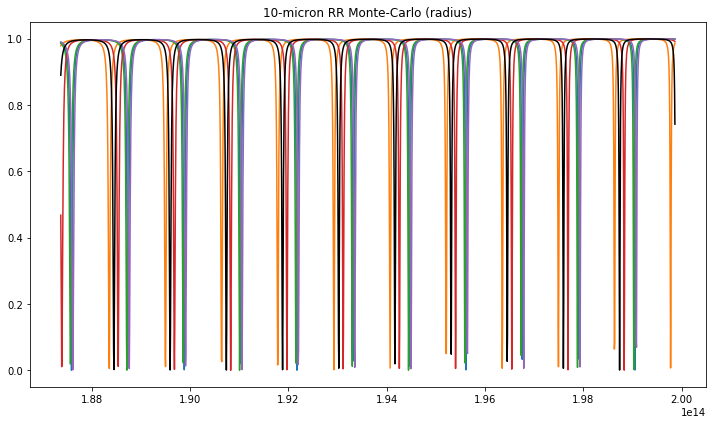
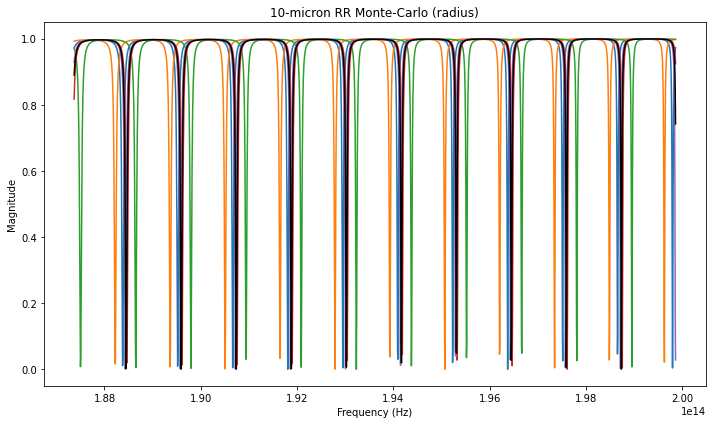
Finished up inverse design tutorials

diff --git a/SiPANN/scee_opt.py b/SiPANN/scee_opt.py
@@ -2,7 +2,6 @@ import nlopt
 import numpy as np
 import matplotlib.pyplot as plt
 from SiPANN import scee
-import pickle
 from scipy import special
 import os
 from tables import *
@@ -139,6 +138,7 @@ def make_coupler(goalK=.4, arrayK=None, waveSweep=np.linspace(1500,1600,4), gapN
     coupler = scee.GapFuncSymmetric(width, thickness, lambda x: gapMax, lambda x: 0, 0, couplingWidth)
     curvatureFunc = lambda x: 0
     localOpt = False
+    waveN = len(waveSweep)
 
     #set up progress bars
     if verbose == 1:

diff --git a/examples/Tutorials/export_to_rst.py b/examples/Tutorials/export_to_rst.py
@@ -18,7 +18,7 @@ def convert_jupyter(file):
     files = fr'{filename}_files'
     os.system(f'rm -rf ../../docs/source/tutorials/{files}')
     os.system(f'cp -r {files} ../../docs/source/tutorials')
-    os.system(f'rm {files}/*_0.png')
+    os.system(f'rm {files}/**_**_**.png')
     os.system(f'mv {filename}.rst ../../docs/source/tutorials/{filename}.rst')
 
 def convert_all():

diff --git a/docs/source/tutorials/InverseDesign.rst b/docs/source/tutorials/InverseDesign.rst
@@ -39,41 +39,49 @@ about the process, see [INSERT PAPER WHEN PUBLISHED].
         if save is not None:
             plt.savefig(save)
 
+Wavelength Sweep
+----------------
+
 Most of the defaults parameters for ``SiPANN.scee_opt.make_coupler``
 have been set because they work well, so if you don’t know what you’re
 doing, it’s generally best to stick with them. Here we make a coupler
-with 25% of the light coming out of the through port. It will return an
+with 25% of the light coming out of the cross port. It will return an
 instance of ``SiPANN.scee.GapFuncSymmetric``, the control points chosen,
 and the final length of the coupler.
+
+The number of points passed into ``waveSweep`` is the one that affects
+how long the optimizer takes the most. We pass in 2 points. This will
+cause the optimizer to use the endpoints of our wavelength sweep when
+evaluating the objective function. This is generally sufficient since
+the response is usually either increasing or decreasing everywhere, so
+trying to push the endpoints to our desired ratio is enough.
 
 .. code:: ipython3
 
     width = 500
     thickness = 220
-    coupler, gap_pts, length = scee_opt.make_coupler(goalK=.25, verbose=1, width=500, thickness=220)
+    coupler, gap_pts, length = scee_opt.make_coupler(goalK=.25, verbose=1, 
+                                                     width=width, thickness=thickness, 
+                                                     waveSweep=np.array([1500,1600]), maxiter=15000)
 
 
 .. parsed-literal::
 
-    LOCAL, MSE: 7.3049, Mean currK: 0.0006: : 200it [02:06,  1.49it/s] 
-
-
-.. image:: InverseDesign_files/InverseDesign_3_1.png
-
+    LOCAL, MSE: 0.0267, Mean currK: 0.2864:  50%|█████     | 15001/30000 [42:58<38:09,  6.55it/s]
 
 We can easily save it to an npz file for later use using
 ``SiPANN.scee_opt.save_coupler``
 
 .. code:: ipython3
 
-    scee_opt.save_coupler(width, thickness, gap_pts, length, "test_coupler.npz")
+    scee_opt.save_coupler(width, thickness, gap_pts, length, "split_25_75.npz")
 
 And then reload it using the ``SiPANN.scee_opt.load_coupler``. This will
 return us an instance of ``SiPANN.scee.GapFuncSymmetric``.
 
 .. code:: ipython3
 
-    coupler = scee_opt.load_coupler("test_coupler.npz")
+    coupler, length = scee_opt.load_coupler("split_25_75.npz")
 
 And we’ll check what it looks like and make sure it performs as we
 anticipated.
@@ -95,25 +103,86 @@ anticipated.
     
     plt.figure(figsize=(15,5))
     plt.subplot(121)
-    plt.axhline(.25, c='k', label="Desired Ratios")
+    plt.axhline(.25, c='k', label="Desired Output")
     plt.axhline(.75, c='k')
     plt.plot(wavelength, np.abs(k)**2, label='k')
     plt.plot(wavelength, np.abs(t)**2, label='t')
-    pltAttr('Wavelength (nm)', 'Magnitude', '25/75 Splitter')
+    pltAttr('Wavelength (nm)', 'Magnitude Squared', '25/75 Splitter', legend='best')
     plt.subplot(122)
     plt.plot(wavelength, np.unwrap(np.angle(k)), label='k')
     plt.plot(wavelength, np.unwrap(np.angle(t)), label='t')
-    pltAttr('Wavelength (nm)', 'Phase (rad)', '25/75 Splitter')
+    pltAttr('Wavelength (nm)', 'Phase (rad)', '25/75 Splitter', legend='best')
 
 
 
-.. image:: InverseDesign_files/InverseDesign_11_0.png
+.. image:: InverseDesign_files/InverseDesign_12_0.png
 
 
 For your convenience, this has been done for a variety of splitting
 ratios already and they all can be loaded using
 ``SiPANN.scee_opt.premade_coupler``. To learn more about how to use that
 see the tutorial on Premade Couplers via Inverse Design.
+
+Single Wavelength
+-----------------
+
+If we desire a specific wavelength to have a ratio, we can achieve this
+by making ``waveSweep`` only have one element. This causes only a single
+wavelength to be optimized (and a solution is generally found very
+quickly). This enforces nothing on any other wavelengths, so it’s
+possible that it will be significantly different than the desired ratio
+even at close wavelengths.
+
+For an example, we show this for :math:`\lambda=1530nm` and a ratio of
+45%.
+
+.. code:: ipython3
+
+    width = 500
+    thickness = 220
+    coupler, gap_pts, length = scee_opt.make_coupler(goalK=.45, verbose=1, 
+                                                     width=width, thickness=thickness, maxiter=30000,
+                                                     waveSweep=np.array([1530]))
+    scee_opt.save_coupler(width, thickness, gap_pts, length, "split_45_55_1530.npz")
+
+
+.. parsed-literal::
+
+    LOCAL, MSE: 0.1523, Mean currK: 0.1832:  18%|█▊        | 10975/60000 [18:09<1:31:59,  8.88it/s] 
+
+.. code:: ipython3
+
+    coupler, length = scee_opt.load_coupler("split_45_55_1530.npz")
+    coupler.gds(view=True,extra=0,units='microns')
+
+.. figure:: InverseDesign_files/splitter.png
+   :alt: splitter
+
+   splitter
+
+.. code:: ipython3
+
+    wavelength = np.linspace(1500, 1600, 100)
+    k = coupler.predict((1,4), wavelength)
+    t = coupler.predict((1,3), wavelength)
+    
+    plt.figure(figsize=(15,5))
+    plt.subplot(121)
+    plt.axhline(.45, c='k', label="Desired Output")
+    plt.axhline(.55, c='k')
+    plt.axvline(1530, c='k')
+    plt.plot(wavelength, np.abs(k)**2, label='k')
+    plt.plot(wavelength, np.abs(t)**2, label='t')
+    pltAttr('Wavelength (nm)', 'Magnitude Squared', '45/55 Splitter at $\lambda=1530$', legend='best')
+    plt.subplot(122)
+    plt.plot(wavelength, np.unwrap(np.angle(k)), label='k')
+    plt.plot(wavelength, np.unwrap(np.angle(t)), label='t')
+    pltAttr('Wavelength (nm)', 'Phase (rad)', '45/55 Splitter at $\lambda=1530$', legend='best')
+
+
+
+.. image:: InverseDesign_files/InverseDesign_18_0.png
+
 
 If you’d like this tutorial as a jupyter notebook, it can be found on
 github,

diff --git a/docs/source/tutorials/Simphony.rst b/docs/source/tutorials/Simphony.rst
@@ -20,6 +20,16 @@ The SCEE wrapper can be found in ``SiPANN.scee_int``.
     
     import matplotlib.pyplot as plt
     import numpy as np
+    
+    def pltAttr(x, y, title=None, legend='upper right', save=None):
+        if legend is not None:
+            plt.legend(loc=legend)
+        plt.xlabel(x)
+        plt.ylabel(y)
+        if title is not None:
+            plt.title(title)
+        if save is not None:
+            plt.savefig(save)
 
 Standard Simulation
 -------------------
@@ -78,13 +88,18 @@ ring resonator as an example.
     f1, s = res1.data(res1.pinlist['in'], res1.pinlist['pass'])
     plt.figure(figsize=(10,6))
     plt.plot(f1, s)
-    plt.title("10-micron Ring Resonator")
+    pltAttr('Frequency (Hz)', 'Magnitude', "10-micron Ring Resonator")
     plt.tight_layout()
     plt.show()
 
 
+.. parsed-literal::
 
-.. image:: Simphony_files/Simphony_10_0.png
+    No handles with labels found to put in legend.
+
+
+
+.. image:: Simphony_files/Simphony_10_1.png
 
 
 Monte-Carlo Simulations
@@ -120,7 +135,7 @@ simulations
     # The data located at the 0 position is the ideal values.
     f, s = result.data('in', 'pass', 0)
     plt.plot(f, s, 'k')
-    plt.title("10-micron RR Monte-Carlo (width and thickness)")
+    pltAttr('Frequency (Hz)', 'Magnitude', "10-micron RR Monte-Carlo (width and thickness)", legend=None)
     plt.tight_layout()
     plt.show()
 
@@ -155,7 +170,7 @@ necessarily going to be equal), but for simplicity using our
     # The data located at the 0 position is the ideal values.
     f, s = result.data('in', 'pass', 0)
     plt.plot(f, s, 'k')
-    plt.title("10-micron RR Monte-Carlo (radius)")
+    pltAttr('Frequency (Hz)', 'Magnitude', "10-micron RR Monte-Carlo (radius)", legend=None)
     plt.tight_layout()
     plt.show()
 

diff --git a/docs/source/tutorials/PreMadeCouplers.rst b/docs/source/tutorials/PreMadeCouplers.rst
@@ -57,7 +57,7 @@ be used to make arbitrary splitting ratios.
     plt.subplot(121)
     plt.plot(wavelength, np.abs(k)**2, label='k')
     plt.plot(wavelength, np.abs(t)**2, label='t')
-    pltAttr('Wavelength (nm)', 'Magnitude', 'Crossover at $\lambda \approx 1550nm$')
+    pltAttr('Wavelength (nm)', 'Magnitude Squared', 'Crossover at $\lambda \approx 1550nm$')
     plt.subplot(122)
     plt.plot(wavelength, np.unwrap(np.angle(k)), label='k')
     plt.plot(wavelength, np.unwrap(np.angle(t)), label='t')
@@ -95,7 +95,7 @@ For further demonstration, we also load a 30/70 splitter.
     plt.axhline(.7, c='k')
     plt.plot(wavelength, np.abs(k)**2, label='k')
     plt.plot(wavelength, np.abs(t)**2, label='t')
-    pltAttr('Wavelength (nm)', 'Magnitude', '30/70 Splitter', legend='center left')
+    pltAttr('Wavelength (nm)', 'Magnitude Squared', '30/70 Splitter', legend='center left')
     plt.subplot(122)
     plt.plot(wavelength, np.unwrap(np.angle(k)), label='k')
     plt.plot(wavelength, np.unwrap(np.angle(t)), label='t')

diff --git a/docs/source/tutorials/HalfRing.rst b/docs/source/tutorials/HalfRing.rst
@@ -60,7 +60,7 @@ And plotting the output gives us
     plt.subplot(121)
     plt.plot(wavelength, np.abs(k)**2, label='k')
     plt.plot(wavelength, np.abs(t)**2, label='t')
-    pltAttr('Wavelength (nm)', 'Magnitude', 'HalfRing 10 Microns')
+    pltAttr('Wavelength (nm)', 'Magnitude Squared', 'HalfRing 10 Microns')
     plt.subplot(122)
     plt.plot(wavelength, np.unwrap(np.angle(k)), label='k')
     plt.plot(wavelength, np.unwrap(np.angle(t)), label='t')
@@ -87,7 +87,7 @@ fixed. This can be done as:
     plt.subplot(121)
     plt.plot(r, np.abs(k)**2, label='k')
     plt.plot(r, np.abs(t)**2, label='t')
-    pltAttr('Radius (nm)', 'Magnitude', 'HalfRing $\lambda=1550$')
+    pltAttr('Radius (nm)', 'Magnitude Squared', 'HalfRing $\lambda=1550$')
     plt.subplot(122)
     plt.plot(r, np.unwrap(np.angle(k)), label='k')
     plt.plot(r, -np.unwrap(np.angle(t)), label='t')
